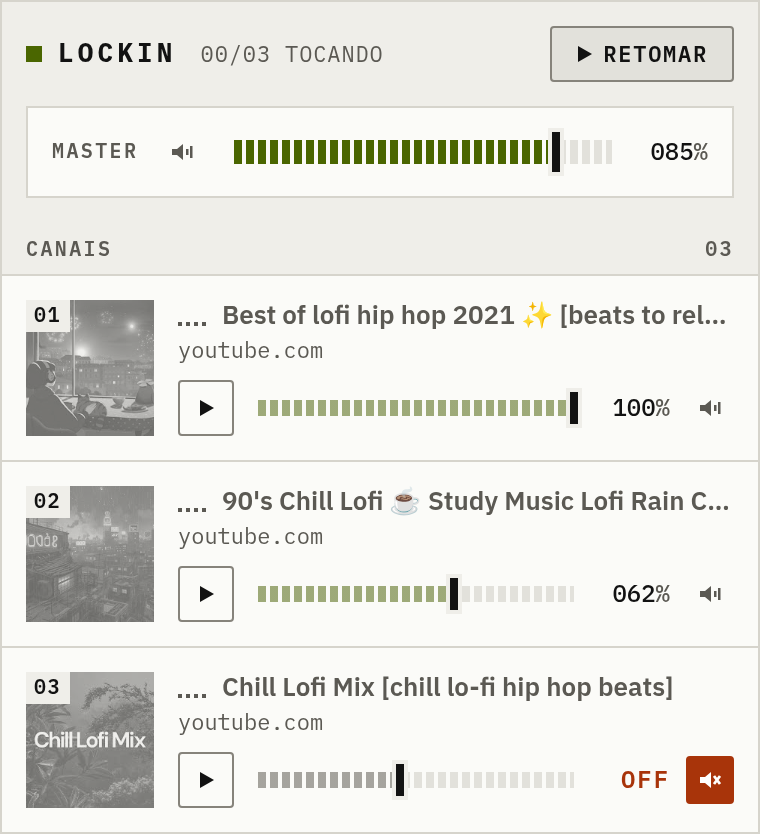
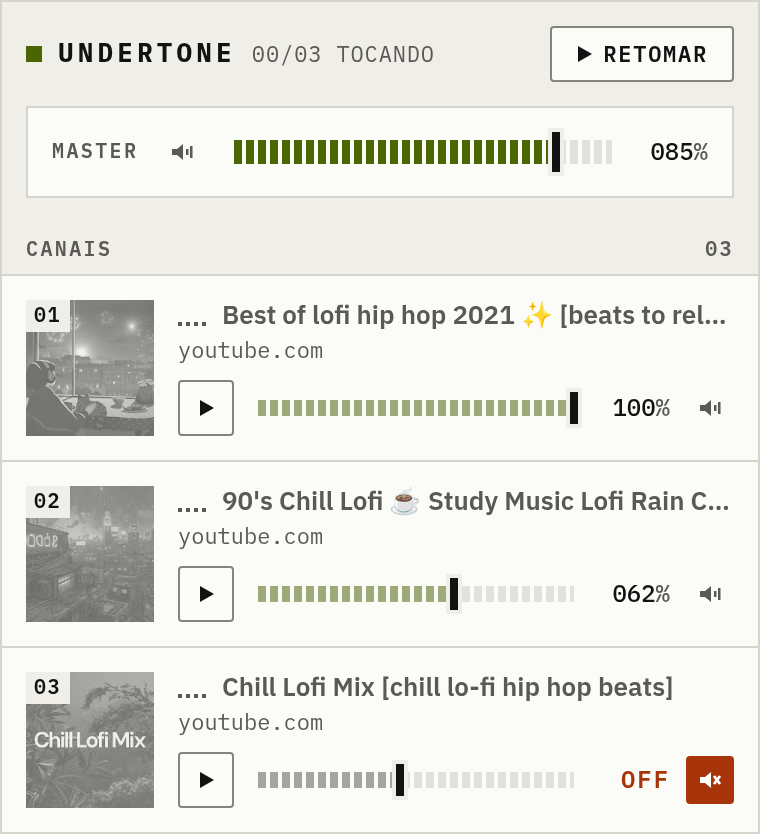
docs: Melhorias de documentação e prints do projeto em execução.

Changed region(s): [[0.0908, 0.0312, 0.575, 0.0935], [0.7263, 0.0312, 0.9684, 0.0935]]

diff --git a/tabmixer/entrypoints/popup/styles/components.css b/tabmixer/entrypoints/popup/styles/components.css
@@ -69,10 +69,10 @@
 
 /* Master */
 .li-master { background: var(--bg); padding: var(--space-3); display: flex; flex-direction: column; gap: var(--space-3); }
-.li-master-top { display: flex; align-items: center; gap: var(--space-3); }
+.li-master-top { display: flex; align-items: center; gap: var(--space-2); }
 .li-wordmark { display: inline-flex; align-items: center; gap: var(--space-2); font: 700 13px/16px var(--font-mono); letter-spacing: .16em; text-transform: uppercase; }
 .li-wordmark i { display: block; width: 8px; height: 8px; background: var(--signal); }
-.li-count { flex: 1; font: 400 11px/14px var(--font-mono); color: var(--ink-muted); text-transform: uppercase; letter-spacing: .04em; }
+.li-count { flex: 1; min-width: 0; white-space: nowrap; overflow: hidden; text-overflow: ellipsis; font: 400 11px/14px var(--font-mono); color: var(--ink-muted); text-transform: uppercase; letter-spacing: .04em; }
 .li-master-row { display: flex; align-items: center; gap: var(--space-2); padding: var(--space-2) var(--space-3) var(--space-2) var(--space-2); background: var(--panel); border: 1px solid var(--line); }
 .li-label { flex: none; padding-left: var(--space-1); font: 600 10px/12px var(--font-mono); letter-spacing: .12em; text-transform: uppercase; color: var(--ink-muted); }
 

diff --git a/README.md b/README.md
@@ -2,16 +2,61 @@
 
 Uma mesa de som para as abas do navegador. O UnderTone é uma extensão para Firefox e Chrome que lista os vídeos do YouTube abertos e permite controlar cada aba pelo popup: pausar, retomar, silenciar e ajustar o volume. Também há um volume master que vale para todas as abas.
 
+![O popup do UnderTone aberto sobre uma aba do YouTube, com três canais tocando](store-assets/store-1.png)
+
+Útil quando você deixa uma playlist de fundo numa aba, uma aula em outra e um vídeo de referência numa terceira: em vez de procurar cada aba para mexer no volume, tudo fica num só lugar, como os canais de uma mesa de som.
+
 ## Funcionalidades
 
 - **Um canal por aba:** cada aba de vídeo do YouTube (`/watch` e `/shorts`) aparece como um canal numerado, com miniatura, título e domínio.
 - **Volume por canal:** um fader de 0 a 100% e um botão de mudo independente em cada aba.
-- **Master:** um volume geral e um mudo geral. O volume que chega ao vídeo é `(canal / 100) × (master / 100)`, e o mudo não apaga o valor do volume.
+- **Master:** um volume geral e um mudo geral, aplicados por cima do volume de cada canal.
 - **Pausar tudo / Retomar:** pausa todas as abas que estão tocando. Depois, "Retomar" dá play somente nas abas que esse comando pausou.
 - **Indicador de atividade:** mostra quais abas estão tocando no momento.
 - **Tema claro e escuro:** segue a preferência do sistema.
 
-O volume master e o registro do "Pausar tudo" ficam em `storage.local` e continuam valendo depois que o popup é fechado.
+| Tocando | Pausado |
+| --- | --- |
+| ![Popup no tema escuro com três canais tocando](store-assets/popup/popup-dark.png) | ![Popup no tema escuro com todos os canais pausados](store-assets/popup/popup-paused-dark.png) |
+| ![Popup no tema claro com três canais tocando](store-assets/popup/popup-light.png) | ![Popup no tema claro com todos os canais pausados](store-assets/popup/popup-paused-light.png) |
+
+## Como usar
+
+1. Abra um ou mais vídeos do YouTube em abas diferentes.
+2. Clique no ícone do UnderTone na barra de ferramentas. Cada vídeo aparece como um canal, na ordem em que foi detectado (`01`, `02`, …). O cabeçalho mostra quantos estão tocando, por exemplo `02/03 TOCANDO`.
+3. Em cada canal:
+   - **▶ / ❚❚** dá play ou pausa só naquela aba;
+   - o **fader** ajusta o volume da aba, de 0 a 100%;
+   - o **alto-falante** à direita silencia a aba. O leitor passa a mostrar `OFF`, mas o fader guarda o volume para quando o som voltar.
+4. Na faixa **MASTER**, o fader e o mudo valem para todas as abas ao mesmo tempo.
+5. **Pausar tudo** pausa o que estiver tocando. O botão vira **Retomar**, que dá play de novo apenas nas abas que foram pausadas por ele. Uma aba que você já tinha pausado antes continua parada.
+
+Não é preciso deixar o popup aberto: os ajustes continuam valendo nas abas depois que ele fecha.
+
+### Como o volume é calculado
+
+O volume que chega ao vídeo é o do canal multiplicado pelo master:
+
+```
+volume do vídeo = (canal / 100) × (master / 100)
+```
+
+Com o master em 50%, um canal em 80% toca a 40% e um canal em 100% toca a 50%. Assim, o master abaixa tudo na mesma proporção, sem desfazer o equilíbrio entre os canais. O mudo (do canal ou do master) silencia sem alterar nenhum desses números.
+
+Até o popup ver uma aba pela primeira vez, o UnderTone não interfere no volume do player do YouTube. A partir daí, o canal começa no volume que o player tinha naquele momento.
+
+| Volume por canal | Pausar tudo e retomar |
+| --- | --- |
+| ![Faders de volume independentes por aba](store-assets/store-2.png) | ![Popup com todos os canais pausados e o botão Retomar](store-assets/store-3.png) |
+
+## Privacidade e permissões
+
+O UnderTone não coleta nem envia dados. Ele não tem servidor, e o popup não faz requisições de rede além de carregar as miniaturas dos vídeos do `i.ytimg.com`, o mesmo endereço que o YouTube usa. As fontes vêm empacotadas na extensão.
+
+| Permissão | Para quê |
+| --- | --- |
+| `*://*.youtube.com/*` | Ler o título e o endereço das abas do YouTube e injetar o script que controla o `<video>`. Nenhum outro site é acessado. |
+| `storage` | Guardar o volume master e a lista de abas pausadas pelo "Pausar tudo". |
 
 ## Requisitos
 
@@ -39,13 +84,16 @@ Build de produção:
 ```bash
 npm run build           # gera .output/chrome-mv3/
 npm run build:firefox   # gera .output/firefox-mv2/
-npm run zip:firefox     # gera o .zip para publicar
+npm run zip             # gera o .zip para a Chrome Web Store
+npm run zip:firefox     # gera o .zip para o addons.mozilla.org
 ```
 
 Para carregar o build manualmente:
 
 - **Firefox:** abra `about:debugging#/runtime/this-firefox`, clique em "Carregar extensão temporária" e escolha `tabmixer/.output/firefox-mv2/manifest.json`.
 - **Chrome:** abra `chrome://extensions`, ative o "Modo do desenvolvedor", clique em "Carregar sem compactação" e escolha a pasta `tabmixer/.output/chrome-mv3/`.
+
+Depois de um novo build, o navegador continua usando a versão carregada até você recarregar a extensão (botão "Recarregar" em `about:debugging` ou o ícone ↻ em `chrome://extensions`).
 
 Verificação de tipos:
 
@@ -55,17 +103,31 @@ npm run compile
 
 ## Como funciona
 
-A cada segundo, o popup consulta as abas do YouTube e pergunta o estado de cada uma ao content script dela. Os comandos (volume, mudo, play/pause) vão para a aba como mensagens.
+```
+┌──────────── popup (App.tsx) ────────────┐
+│ a cada 1 s: tabs.query(abas do YouTube) │
+│            → GET_STATE para cada aba    │
+│ comandos:  SET_VOLUME / SET_MUTED /     │
+│            SET_PAUSED                   │
+└───────┬───────────────────────┬─────────┘
+        │ tabs.sendMessage      │ storage.local (master)
+        ▼                       ▼
+┌──── youtube.content.ts (uma por aba) ───┐
+│ guarda volume/mudo do canal             │
+│ aplica (canal × master) ao <video>      │
+└─────────────────────────────────────────┘
+```
 
-O content script ([`youtube.content.ts`](tabmixer/entrypoints/youtube.content.ts)) guarda o volume e o mudo do canal e aplica o volume efetivo ao `<video>`. Quando o master muda em `storage.local`, ele recalcula esse volume. Como o YouTube troca de vídeo sem recarregar a página, o content script também reaplica o volume a cada vídeo novo.
+A cada segundo, o popup consulta as abas do YouTube e pergunta o estado de cada uma ao content script dela. Uma aba só vira canal se responder, ou seja, se tiver um player. Os comandos (volume, mudo, play/pause) vão para a aba como mensagens, e o contrato dessas mensagens fica em [`utils/mixer.ts`](tabmixer/utils/mixer.ts).
 
-Se uma aba já estava aberta antes de a extensão ser instalada, ela ainda não tem o content script e por isso não aparece no popup. Basta recarregar a aba.
+O content script ([`youtube.content.ts`](tabmixer/entrypoints/youtube.content.ts)) guarda o volume e o mudo do canal e aplica o volume efetivo ao `<video>`. O master não passa por mensagem: o popup grava em `storage.local`, e cada content script escuta `storage.onChanged` e recalcula o volume. Como o YouTube troca de vídeo sem recarregar a página, o content script também reaplica o volume a cada vídeo novo (`loadedmetadata`).
 
 ## Estrutura
 
 ```
 docs/
   UnderTone-Design-System.pdf     especificação visual do popup
+store-assets/                  prints para as lojas e para este README
 tabmixer/
   wxt.config.ts                manifest e permissões
   utils/mixer.ts               tipos e mensagens entre o popup e o content script
@@ -82,7 +144,15 @@ tabmixer/
 
 O visual do popup segue o [UnderTone Design System](docs/UnderTone-Design-System.pdf), que define cores (12 tokens em dois temas), tipografia (IBM Plex Sans e Mono), medidas, estados e componentes. `tokens.css` e `components.css` são cópias literais dos apêndices A e B do documento. Ao mudar o visual, atualize o documento primeiro.
 
+![Os popups claro e escuro lado a lado](store-assets/store-4.png)
+
 As fontes são empacotadas na extensão via `@fontsource`, então o popup não faz requisições de rede para carregá-las.
+
+## Solução de problemas
+
+- **Uma aba de vídeo não aparece no popup.** Se a aba já estava aberta antes de a extensão ser instalada (ou recarregada), ela ainda não tem o content script. Recarregue a aba.
+- **O popup diz "Nenhuma aba tocando áudio agora".** Só páginas de vídeo (`/watch` e `/shorts`) contam. A página inicial, a busca e os canais do YouTube não aparecem.
+- **O volume mudou sozinho ao trocar de vídeo.** O player do YouTube reaplica o próprio volume ao carregar um vídeo, e o UnderTone sobrescreve logo em seguida. Se você mexer no volume pelo player do YouTube, o próximo vídeo volta ao valor do canal.
 
 ## Stack
 
@@ -92,3 +162,4 @@ As fontes são empacotadas na extensão via `@fontsource`, então o popup não f
 
 - Só abas de vídeo do YouTube são listadas. Para incluir outros sites, seria preciso pedir permissão para todos os sites (`<all_urls>`) e generalizar o content script.
 - O volume de cada canal fica guardado só enquanto a aba está aberta; o volume master é o único salvo em `storage.local`.
+- Mudanças feitas direto no player do YouTube não aparecem no fader do canal.
